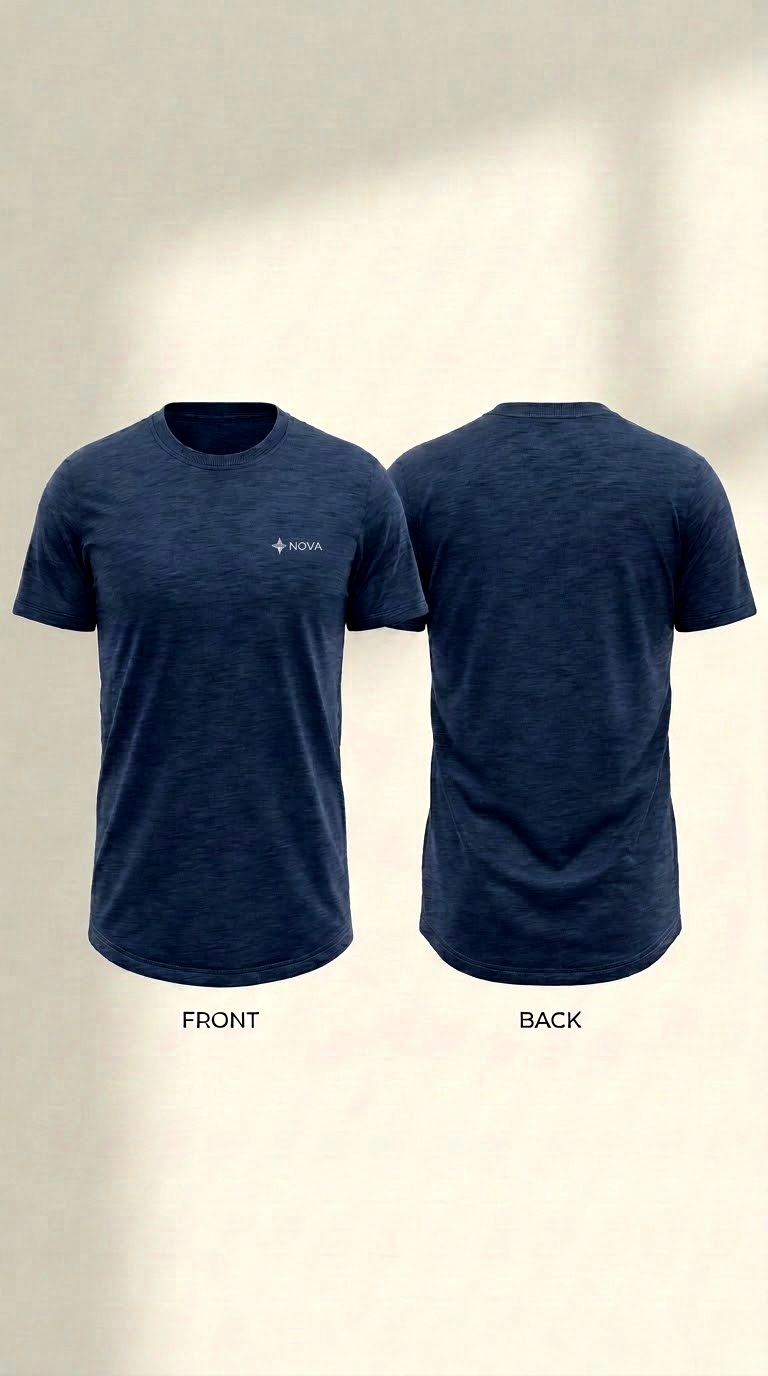
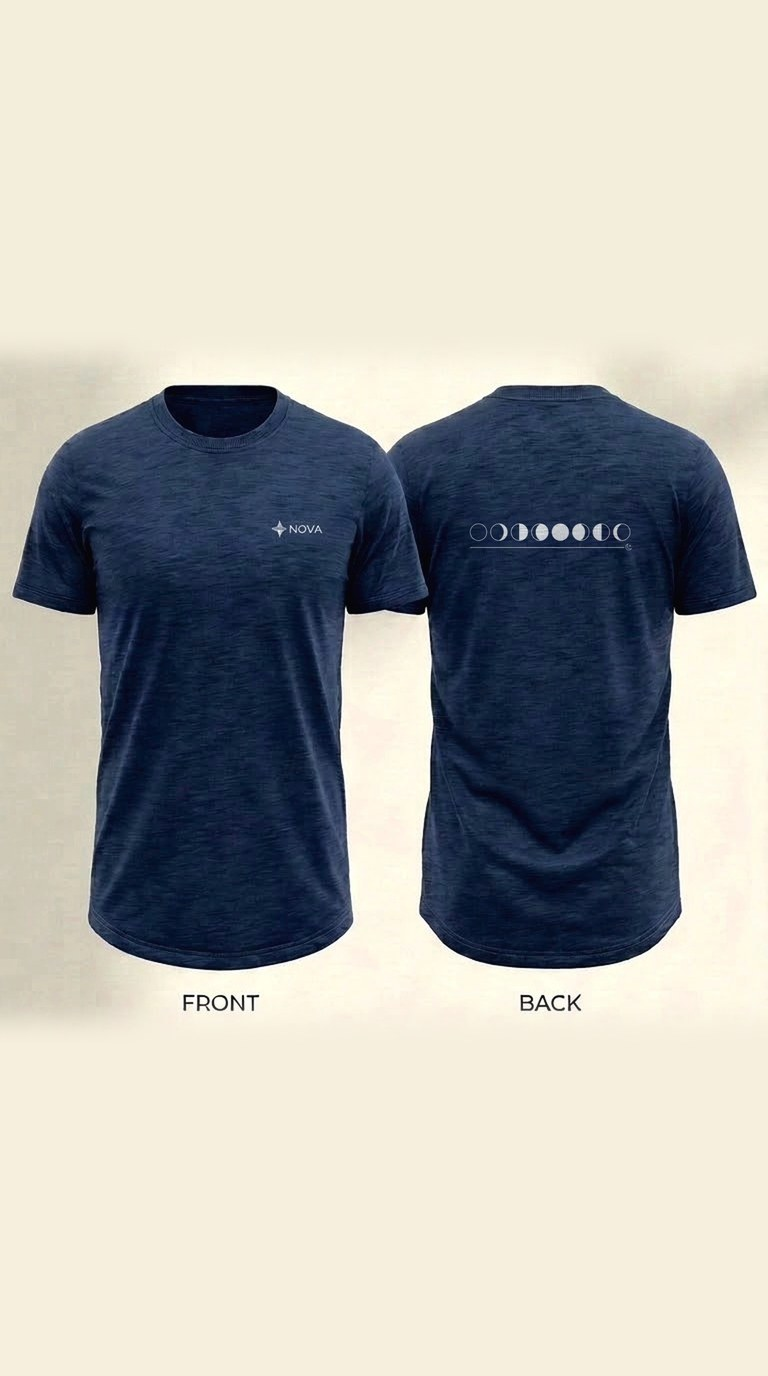
Community: new merch photos with mugs between the clothes, wallpapers spread out, real social links
Merch: Yazan's new photos (2026-10-27) on tall frames, the zip-up and navy
tee flipped back from their mirrored originals; the black mug stays.
Wallpapers: the dark-blue ones apart in the shelf; likes and saved file
names keyed by each wallpaper's id so the order can change.
Free tokens: TikTok, Instagram, Facebook and YouTube links.

Claude-Session: https://claude.ai/code/session_013ufeK7RZAufuNLzACUdBSA

diff --git a/src/features/community/Wallpapers.tsx b/src/features/community/Wallpapers.tsx
@@ -8,23 +8,21 @@ import { Fade } from '@/components/Fade';
 import { PulseStar } from '@/components/PulseStar';
 import { useLike } from '@/features/community/likes';
 import { saveWallpaper, type SaveResult } from '@/features/community/save';
-import { WALLPAPERS } from '@/features/community/Shelf';
+import { WALLPAPER_IDS, WALLPAPERS } from '@/features/community/Shelf';
 import { tapped } from '@/lib/sound';
 import { useTheme } from '@/state/app';
 import { u } from '@/theme/scale';
 import { F } from '@/theme/tokens';
 
-const two = (x: number) => String(x).padStart(2, '0');
-
-function WallPost({ src, i }: { src: ImageSourcePropType; i: number }) {
+function WallPost({ src, id }: { src: ImageSourcePropType; id: string }) {
   const t = useTheme();
-  const like = useLike(`wall:w${two(i + 1)}`);
+  const like = useLike(`wall:${id}`);
   const liked = like.mine;
   const [saved, setSaved] = useState<SaveResult | 'saving' | null>(null);
   const save = tapped(async () => {
     if (saved === 'saving') return;
     setSaved('saving');
-    setSaved(await saveWallpaper(src, `mednova-wallpaper-${two(i + 1)}`));
+    setSaved(await saveWallpaper(src, `mednova-wallpaper-${id.slice(1)}`));
   });
   const saveLabel = saved === 'saving' ? 'Saving…' : saved === 'saved' ? 'Saved' : saved === 'denied' ? 'Allow photos to save' : saved === 'error' ? 'Try again' : 'Save';
   return (
@@ -35,7 +33,7 @@ function WallPost({ src, i }: { src: ImageSourcePropType; i: number }) {
       </View>
       {/* The frame sets the shape; a bare Image takes the file's own height on web. */}
       <View style={s.photo}>
-        <Image source={src} style={s.fill} contentFit="cover" transition={0} cachePolicy="memory" accessibilityLabel={`Wallpaper ${i + 1}`} />
+        <Image source={src} style={s.fill} contentFit="cover" transition={0} cachePolicy="memory" accessibilityLabel={`Wallpaper ${Number(id.slice(1))}`} />
       </View>
       <View style={s.acts}>
         <Pressable onPress={tapped(like.toggle)} style={[s.act, { borderColor: liked ? t.accent : t.chipLine, backgroundColor: t.chip }]} accessibilityRole="button" accessibilityState={{ selected: liked }} accessibilityLabel={liked ? 'Unlike' : 'Like'}>
@@ -65,7 +63,7 @@ export function Wallpapers() {
           </Text>
         </View>
         {WALLPAPERS.map((src, i) => (
-          <WallPost key={i} src={src} i={i} />
+          <WallPost key={WALLPAPER_IDS[i]} src={src} id={WALLPAPER_IDS[i]} />
         ))}
       </ScrollView>
     </Fade>

diff --git a/src/features/community/Shelf.tsx b/src/features/community/Shelf.tsx
@@ -8,19 +8,22 @@ import { useTheme } from '@/state/app';
 import { u } from '@/theme/scale';
 import { F } from '@/theme/tokens';
 
-// Yazan's wallpapers and merch photos (2026-10-13). Merch 05-06 are the printed mug cut from his two-mug shots.
+// Yazan's wallpapers and merch photos (2026-10-13). Wallpapers ordered so the dark-blue ones sit apart (2026-10-27).
+// Merch (2026-10-27): mugs between the clothes, m02 the black mug kept from the first set.
 export const WALLPAPERS: ImageSourcePropType[] = [
   require('@/assets/community/wallpapers/w01.jpg'),
   require('@/assets/community/wallpapers/w02.jpg'),
-  require('@/assets/community/wallpapers/w03.jpg'),
-  require('@/assets/community/wallpapers/w04.jpg'),
   require('@/assets/community/wallpapers/w05.jpg'),
-  require('@/assets/community/wallpapers/w06.jpg'),
-  require('@/assets/community/wallpapers/w07.jpg'),
+  require('@/assets/community/wallpapers/w03.jpg'),
   require('@/assets/community/wallpapers/w08.jpg'),
+  require('@/assets/community/wallpapers/w04.jpg'),
   require('@/assets/community/wallpapers/w09.jpg'),
+  require('@/assets/community/wallpapers/w06.jpg'),
   require('@/assets/community/wallpapers/w10.jpg'),
+  require('@/assets/community/wallpapers/w07.jpg'),
 ];
+/** Each wallpaper's own id (its file), for likes and saved file names: the order above can change. */
+export const WALLPAPER_IDS = ['w01', 'w02', 'w05', 'w03', 'w08', 'w04', 'w09', 'w06', 'w10', 'w07'];
 export const MERCH: ImageSourcePropType[] = [
   require('@/assets/community/merch/m01.jpg'),
   require('@/assets/community/merch/m02.jpg'),

diff --git a/src/features/store/links.ts b/src/features/store/links.ts
@@ -1,10 +1,10 @@
-// Where the free token ways send players. Empty until Yazan sends the real links: the old placeholders pointed at
-// other people's accounts (2026-10-21). A way with no link shows "Coming soon" and pays nothing.
+// Where the free token ways send players: Yazan's accounts (2026-10-27). A way with no link shows "Coming soon" and
+// pays nothing (the Instagram channel and the store listings, for now).
 export const LINKS: Record<'tiktok' | 'instagram' | 'facebook' | 'youtube' | 'channel' | 'listing' | 'listingAndroid', string> = {
-  tiktok: '',
-  instagram: '',
-  facebook: '',
-  youtube: '',
+  tiktok: 'https://www.tiktok.com/@novagames316',
+  instagram: 'https://www.instagram.com/nova.games.app/',
+  facebook: 'https://www.facebook.com/profile.php?id=61595480547011',
+  youtube: 'https://www.youtube.com/@nova_apps',
   channel: '',
   listing: '',
   listingAndroid: '',
